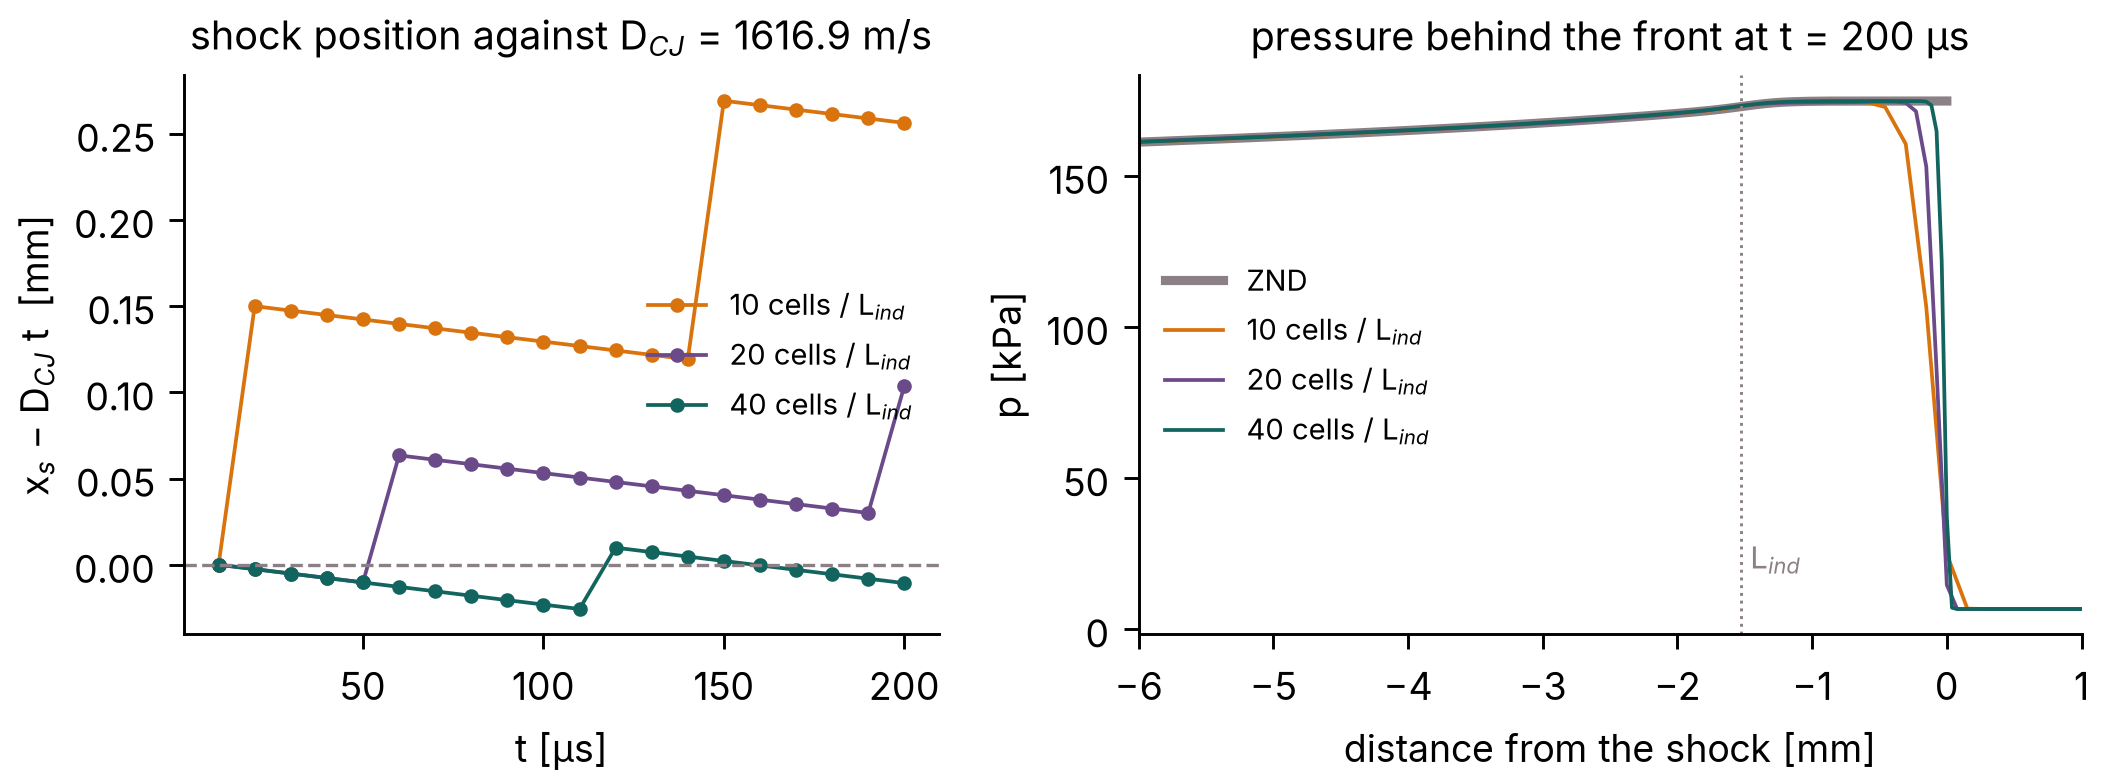
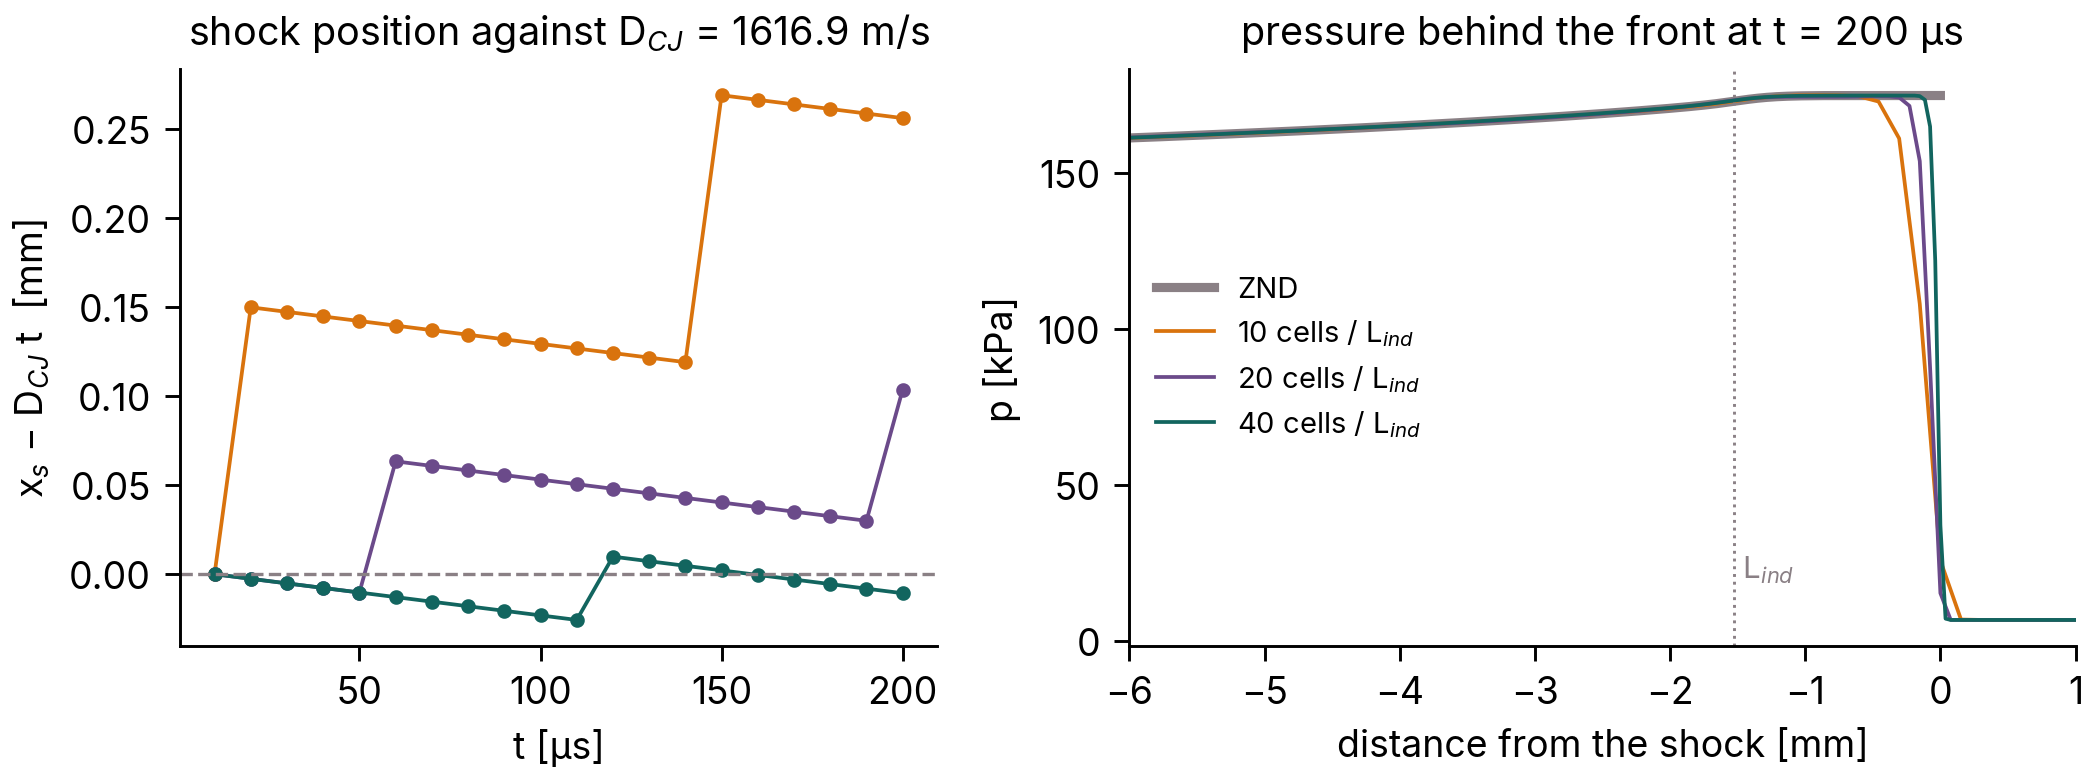
Validation figures: detonation and LES spectra redrawn with their legends off the data (#73)

diff --git a/content/validation.md b/content/validation.md
@@ -357,13 +357,13 @@ The viscous terms converge at second order on quadrilaterals and at 1.9 to 2.0 o
 
 #### CJ detonation {#detonation}
 
-Mallard 0.4.0
+Table: Mallard 0.4.0. Figure: redrawn with [`d57440e`](https://github.com/MatthewBonanni/mallard/commit/d57440e) (0.10.0 + 48 commits); at 20 cells per induction length the induction length is 1.504 mm (−1.4%) and the peak pressure 175.1 kPa, the other rows the same numbers
 { .mallard-provenance }
 
 A planar Chapman–Jouguet detonation in 2H<sub>2</sub>-O<sub>2</sub>-7Ar at 6.67 kPa and 298 K, the [`detonation_1d`](docs/examples.md#detonation-1d) example. With this mechanism the recombination zone behind the front is about 0.8 m long, so a detonation started by a driver gas runs below the CJ speed over any practical tube (9% below over 0.6 m); the run therefore starts from the steady ZND structure, computed with Cantera by `tools/setup/detonation_reference.py` (the formulation of Shepherd's [Shock and Detonation Toolbox](https://shepherd.caltech.edu/EDL/PublicResources/sdt/)) and placed on the mesh by `tools/setup/znd_restart.py`, and must keep it: the CJ speed D<sub>CJ</sub> = 1616.9 m/s, the induction length (from the shock to the peak heat release) 1.525 mm, and the von Neumann pressure spike, 174.7 kPa. A 0.6 m tube with the shock at 0.25 m, run for 200 µs (about 0.32 m of travel) on 10, 20 and 40 cells per induction length; MUSCL, HLLC, SSPRK3 at CFL 0.5. The front speed is a line fit to the shock position (the last cell above twice the initial pressure) over the second half of the run, and the induction length the mean over the same outputs.
 
 <figure class="mallard-figure" markdown>
-![Front speed of the detonation against the CJ speed over 200 microseconds, and the pressure behind the front against the ZND profile, at three resolutions](validation/detonation.png){ loading=lazy width=2101 height=783 }
+![Front speed of the detonation against the CJ speed over 200 microseconds, and the pressure behind the front against the ZND profile, at three resolutions](validation/detonation.png){ loading=lazy width=2095 height=778 }
 <figcaption>Left: front speed between outputs 10 µs apart. Right: pressure behind the front at 200 µs against the ZND profile; the dotted line is the ZND induction length.</figcaption>
 </figure>
 
@@ -1153,13 +1153,13 @@ With 0.02 D cells on the wall the facets sit 10<sup>−4</sup> D inside the sphe
 
 ### Decaying isotropic turbulence {#les-cbc}
 
-[`d8060fd`](https://github.com/MatthewBonanni/mallard/commit/d8060fd) with the uncommitted files of [#213](https://github.com/MatthewBonanni/mallard/pull/213) (0.5.0 + 83 commits on the LES branch). The dynamic constant: development code between 0.6.0 and 0.7.0 ([#223](https://github.com/MatthewBonanni/mallard/pull/223))
+[`d8060fd`](https://github.com/MatthewBonanni/mallard/commit/d8060fd) with the uncommitted files of [#213](https://github.com/MatthewBonanni/mallard/pull/213) (0.5.0 + 83 commits on the LES branch). The dynamic constant: development code between 0.6.0 and 0.7.0 ([#223](https://github.com/MatthewBonanni/mallard/pull/223)). Figure: redrawn with [`d57440e`](https://github.com/MatthewBonanni/mallard/commit/d57440e) (0.10.0 + 48 commits), the same numbers
 { .mallard-provenance }
 
 The grid turbulence of Comte-Bellot & Corrsin (1971), in the [`cbc_les`](docs/examples.md#cbc-les) example. A periodic box of eleven mesh lengths starts from the measured spectrum at the first station (t U<sub>0</sub>/M = 42). The spectra are compared at the next two stations, 98 and 171, with a fictitious sound speed for a turbulent Mach number of 0.1. Spectral error is the log<sub>10</sub> RMS of E<sub>LES</sub>/E<sub>CBC</sub> up to 2/3 of the grid cutoff wavenumber, at stations 2 / 3. The dissipation shares are averaged over the run.
 
 <figure class="mallard-figure" markdown>
-![Energy spectra of LES runs at two stations against the measurements of Comte-Bellot and Corrsin](validation/les_cbc.png){ loading=lazy width=1500 height=630 }
+![Energy spectra of LES runs at two stations against the measurements of Comte-Bellot and Corrsin](validation/les_cbc.png){ loading=lazy width=1484 height=701 }
 <figcaption>Energy spectra at t U<sub>0</sub>/M = 98 and 171 against Comte-Bellot & Corrsin: Sigma with the hybrid flux, without a model, and with HLLC.</figcaption>
 </figure>
 
